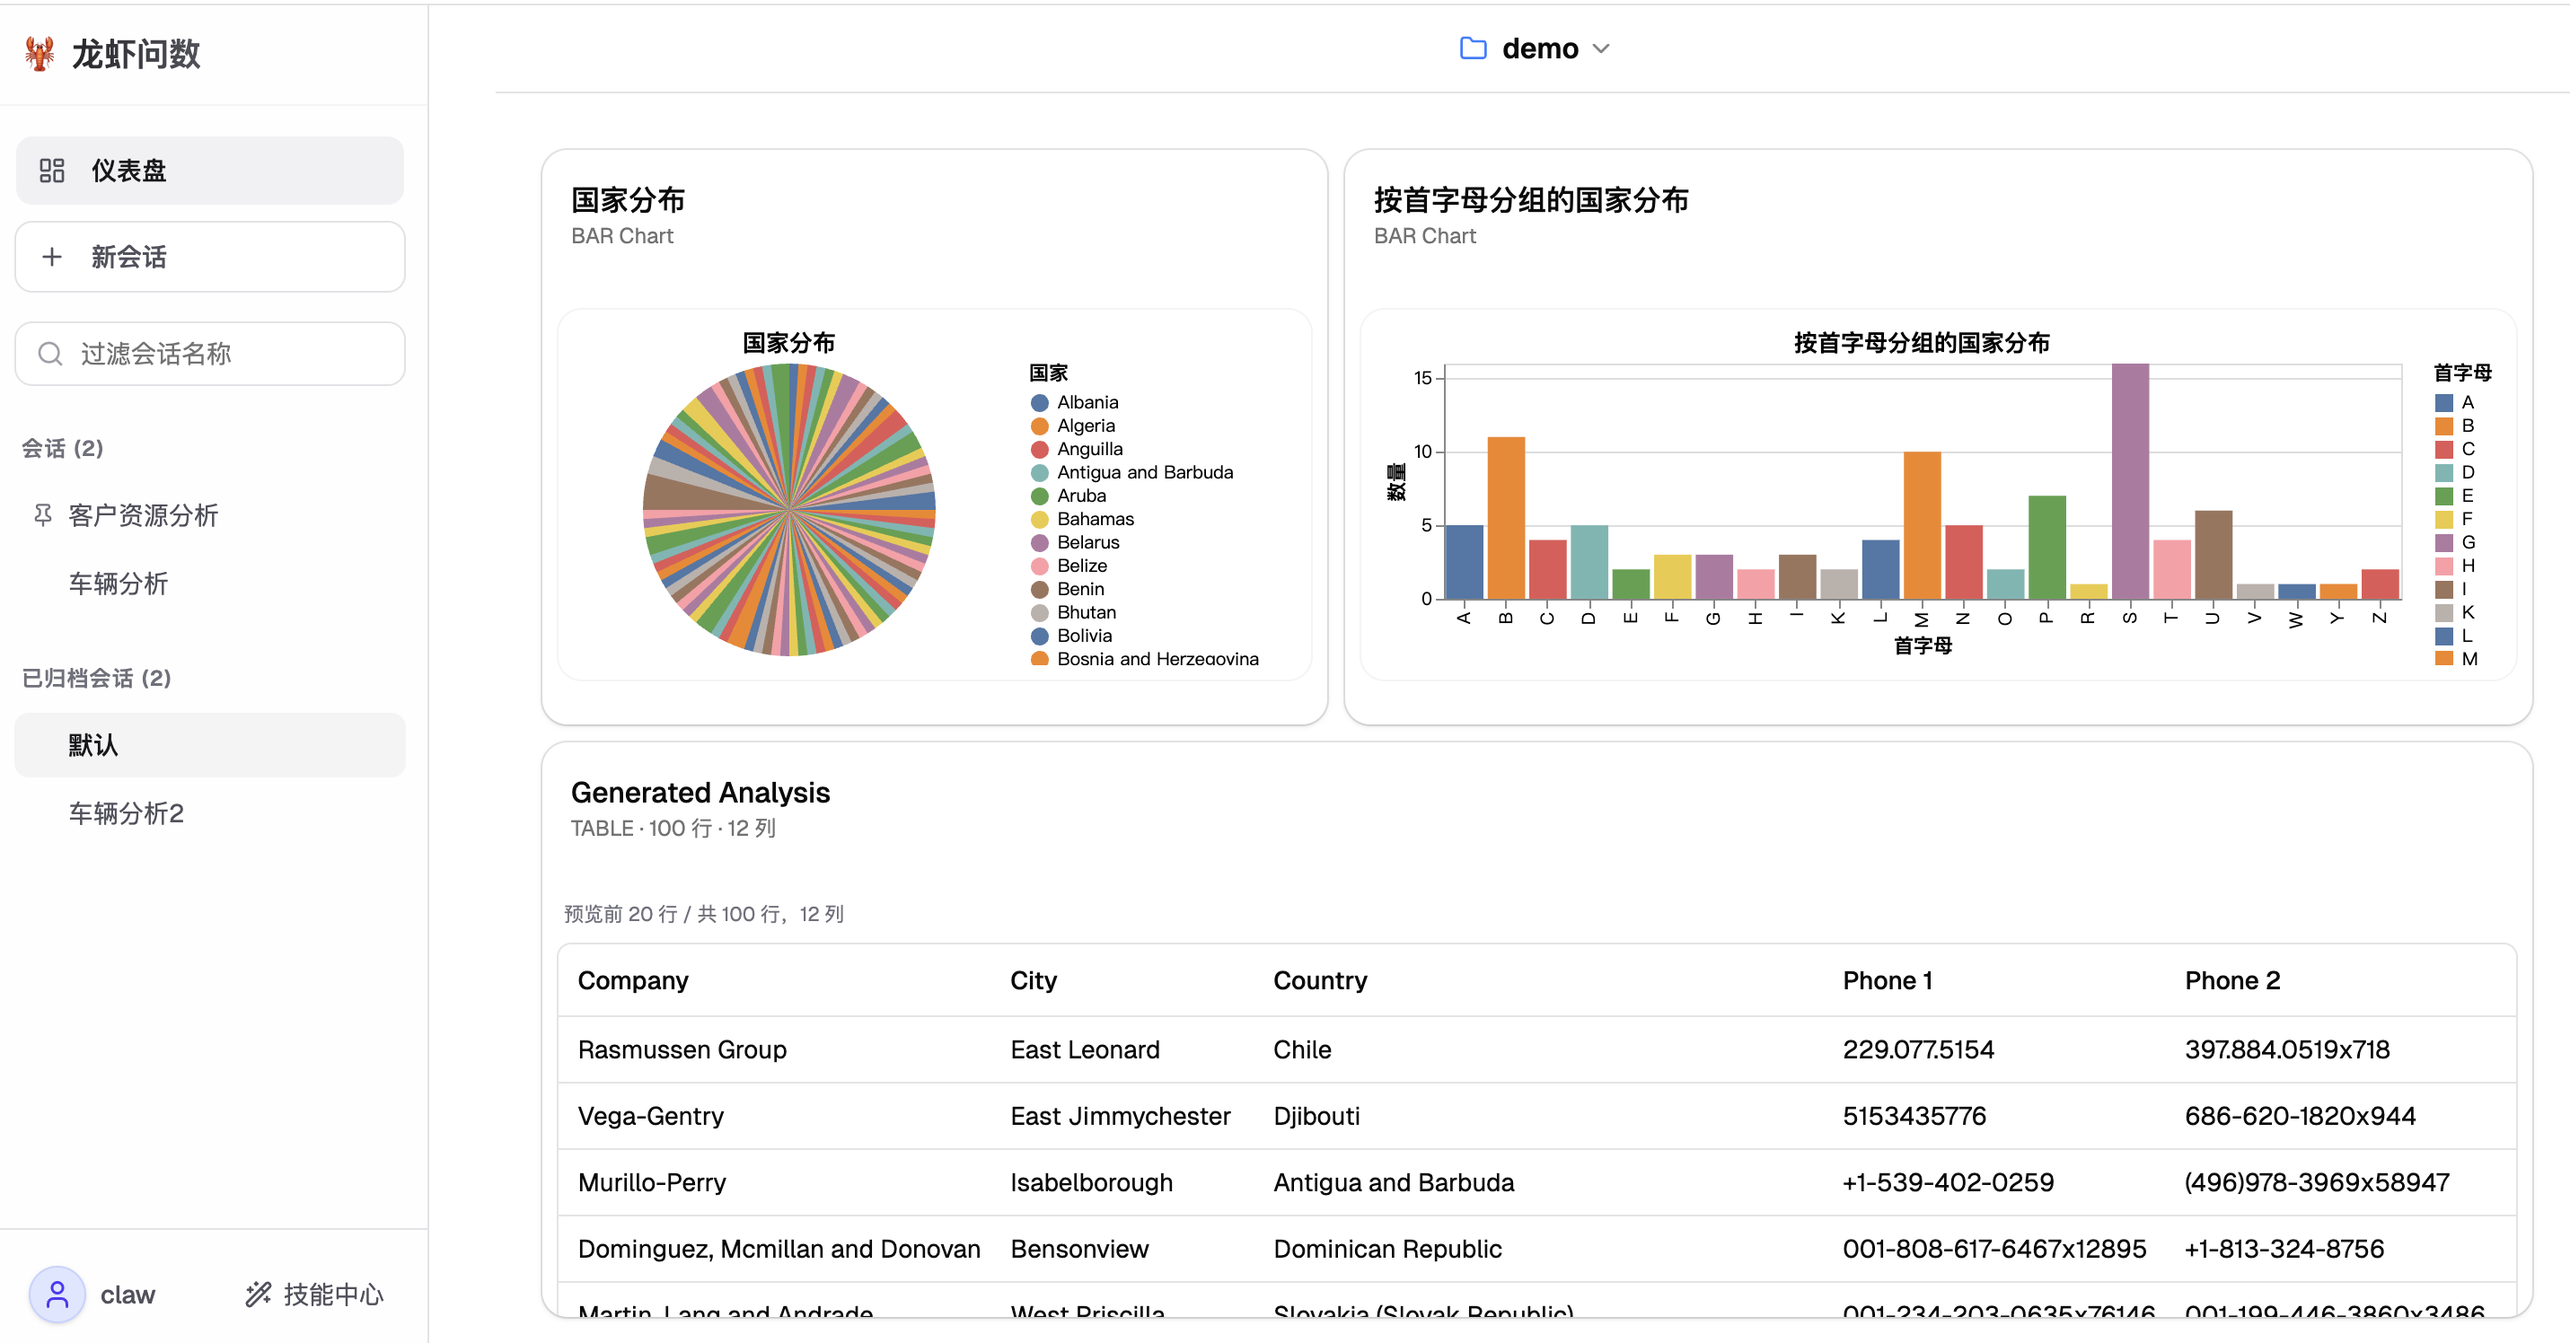
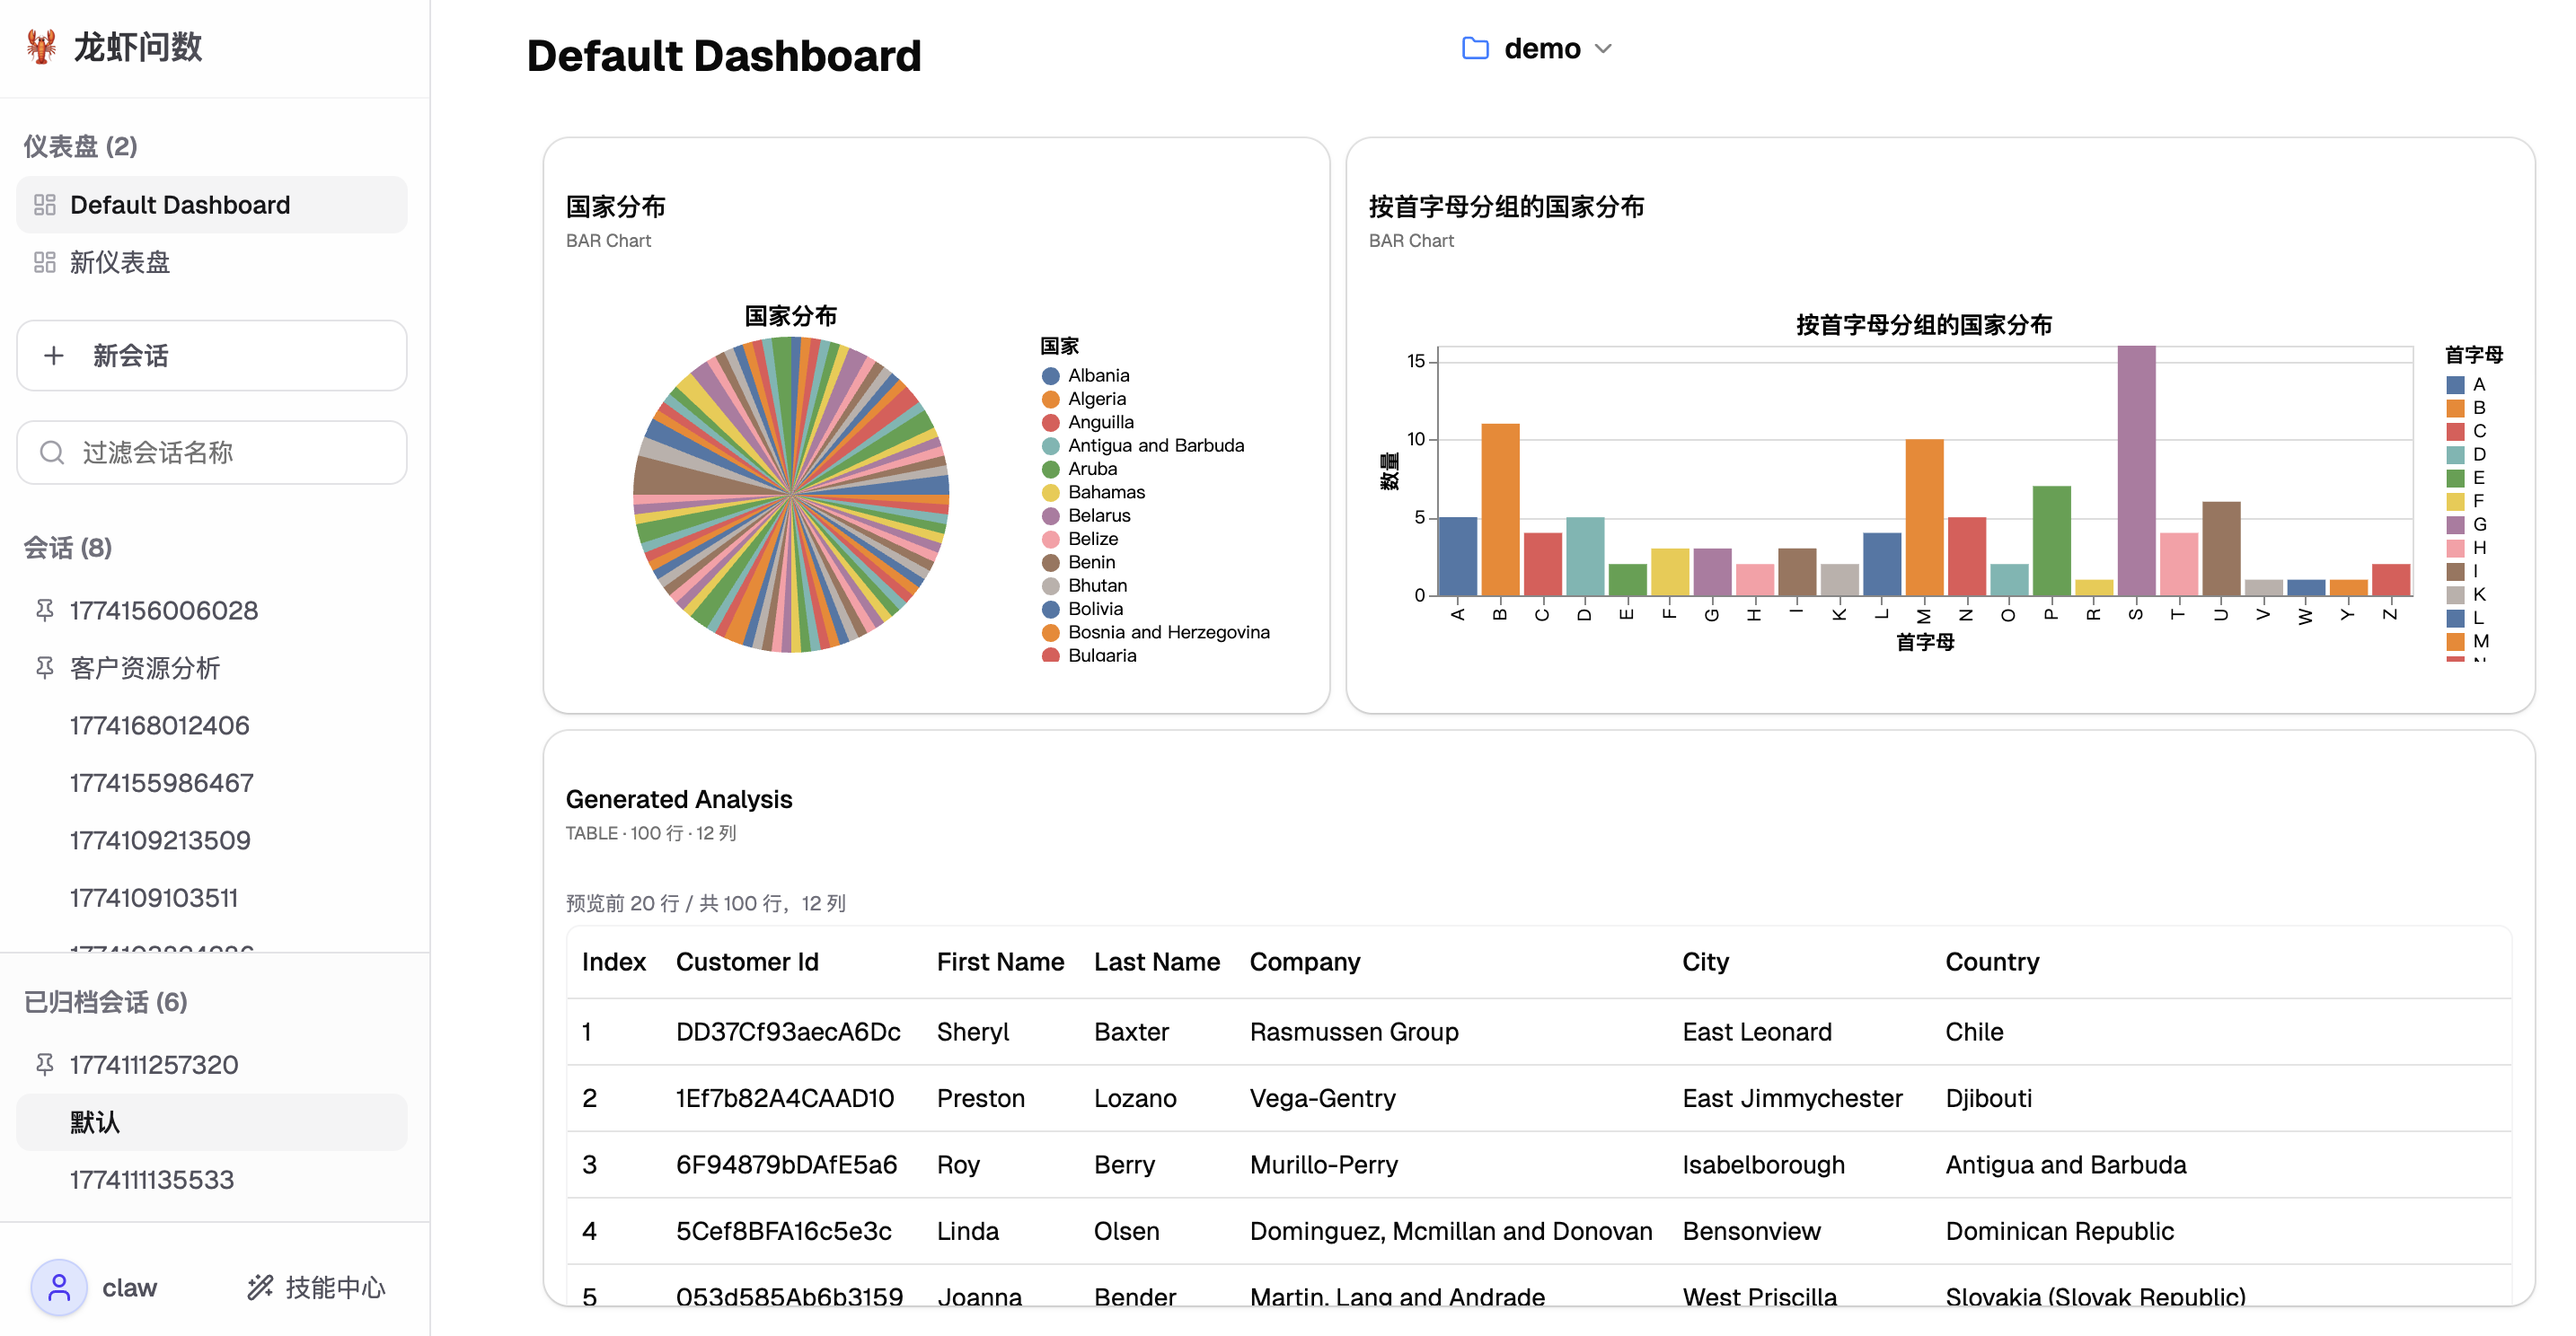
UI: polish

diff --git a/frontend/src/pages/Dashboard.tsx b/frontend/src/pages/Dashboard.tsx
@@ -250,10 +250,10 @@ export function Dashboard() {
           return (
           <div key={chart.id} className="relative group">
             <Card className="h-full flex flex-col shadow-sm border-muted">
-              <CardHeader className="pb-2 shrink-0 flex flex-row items-center justify-between space-y-0">
+              <CardHeader className="p-3 pb-1 shrink-0 flex flex-row items-center justify-between space-y-0">
                 <div>
-                  <CardTitle className="text-base">{chart.title}</CardTitle>
-                  <CardDescription className="text-xs">
+                  <CardTitle className="text-sm">{chart.title}</CardTitle>
+                  <CardDescription className="text-[10px] mt-0.5">
                     {chart.type === "table"
                       ? t('tableRowColDesc', { rowCount: rows.length, colCount: columns.length })
                       : `${chart.type.toUpperCase()} Chart`}
@@ -262,13 +262,13 @@ export function Dashboard() {
                 <Button 
                   variant="ghost" 
                   size="icon" 
-                  className="h-6 w-6 opacity-0 group-hover:opacity-100 transition-opacity"
+                  className="h-6 w-6 opacity-0 group-hover:opacity-100 transition-opacity -mr-1"
                   onClick={() => removeChart(chart.id, activeDashboard.id, currentProject.id)}
                 >
                   <X className="h-4 w-4" />
                 </Button>
               </CardHeader>
-              <CardContent className="flex-1 min-h-0 p-2">
+              <CardContent className="flex-1 min-h-0 p-3 pt-1 flex flex-col">
                 {(() => {
                   if (chart.type === "table") {
                     if (rows.length === 0) {
@@ -286,11 +286,11 @@ export function Dashboard() {
                       );
                     }
                     return (
-                      <div className="h-full w-full flex flex-col gap-2">
-                        <div className="text-[11px] text-zinc-500 px-1">
+                      <div className="flex-1 w-full flex flex-col min-h-0">
+                        <div className="text-[11px] text-zinc-500 mb-1 shrink-0">
                           {isTableTruncated ? t('previewTableRows', { previewLimit: TABLE_PREVIEW_LIMIT, rowCount: rows.length, colCount: columns.length }) : t('totalTableRows', { rowCount: rows.length, colCount: columns.length })}
                         </div>
-                        <ScrollArea className="flex-1 w-full border rounded-md">
+                        <ScrollArea className="flex-1 w-full border border-zinc-100 rounded-md bg-white">
                           <Table>
                             <TableHeader>
                               <TableRow>
@@ -313,7 +313,7 @@ export function Dashboard() {
                   }
                   if (chart.chartSpec && rows.length > 0) {
                     return (
-                      <div className="h-full w-full rounded-xl border border-zinc-100 p-2 overflow-hidden">
+                      <div className="flex-1 w-full overflow-hidden">
                         <VegaChart data={rows} spec={chart.chartSpec} />
                       </div>
                     );

diff --git a/frontend/src/components/ChatInterface.tsx b/frontend/src/components/ChatInterface.tsx
@@ -812,7 +812,7 @@ export function ChatInterface() {
                           <PopoverTrigger className="flex items-center justify-center h-9 w-9 rounded-full hover:bg-zinc-100 transition-colors text-zinc-500">
                             <Plus className="h-5 w-5" />
                           </PopoverTrigger>
-                          <PopoverContent side="top" align="start" className="w-[480px] p-0 mb-2 overflow-hidden rounded-2xl border-zinc-200 shadow-xl">
+                          <PopoverContent side="bottom" align="start" className="w-[480px] p-0 mt-2 overflow-hidden rounded-2xl border-zinc-200 shadow-xl">
                             <div className="flex divide-x divide-zinc-100">
                               {/* Left Column: Data Source */}
                               <div className="flex-1 p-3 bg-zinc-50/50">

diff --git a/README_en.md b/README_en.md
@@ -22,11 +22,17 @@ Whether you're querying a massive Supabase/PostgreSQL database or just tossing i
 - **🛠 Extensible Agent Skills**: Built on top of the powerful `nanobot` framework (a lightweight version of `OpenClaw`). Add custom tools and slash commands (`/`) to tailor the agent to your specific business logic.
 - **📊 Customizable Dashboards**: Pin your favorite chat-generated charts to a drag-and-drop dashboard for quick access.
 
-<br />
+***
+
+## 📸 Screenshots
 
 <div align="center">
-  <img src="./examples/index.png" width="48%" />
-  <img src="./examples/dashboard.png" width="48%" />
+  <h3>Chat Interface</h3>
+  <img src="./examples/index.png" width="80%" />
+  <br />
+  <br />
+  <h3>Customizable Dashboard</h3>
+  <img src="./examples/dashboard.png" width="80%" />
 </div>
 
 <br />

diff --git a/README.md b/README.md
@@ -22,11 +22,17 @@
 - **🛠 强大的 Agent 技能拓展**: 基于核心 `nanobot`框架（`OpenClaw`的精简版）构建。支持通过斜杠命令 (`/`) 快速调用自定义工具 (Skills)，完美贴合特定业务逻辑。
 - **📊 可定制仪表盘 (Dashboard)**: 一键将对话中生成的图表固定到看板，拖拽布局，随时查看核心指标。
 
-<br />
+***
+
+## 📸 界面预览
 
 <div align="center">
-  <img src="./examples/index.png" width="48%" />
-  <img src="./examples/dashboard.png" width="48%" />
+  <h3>对话式分析界面</h3>
+  <img src="./examples/index.png" width="80%" />
+  <br />
+  <br />
+  <h3>可定制仪表盘</h3>
+  <img src="./examples/dashboard.png" width="80%" />
 </div>
 
 <br />
